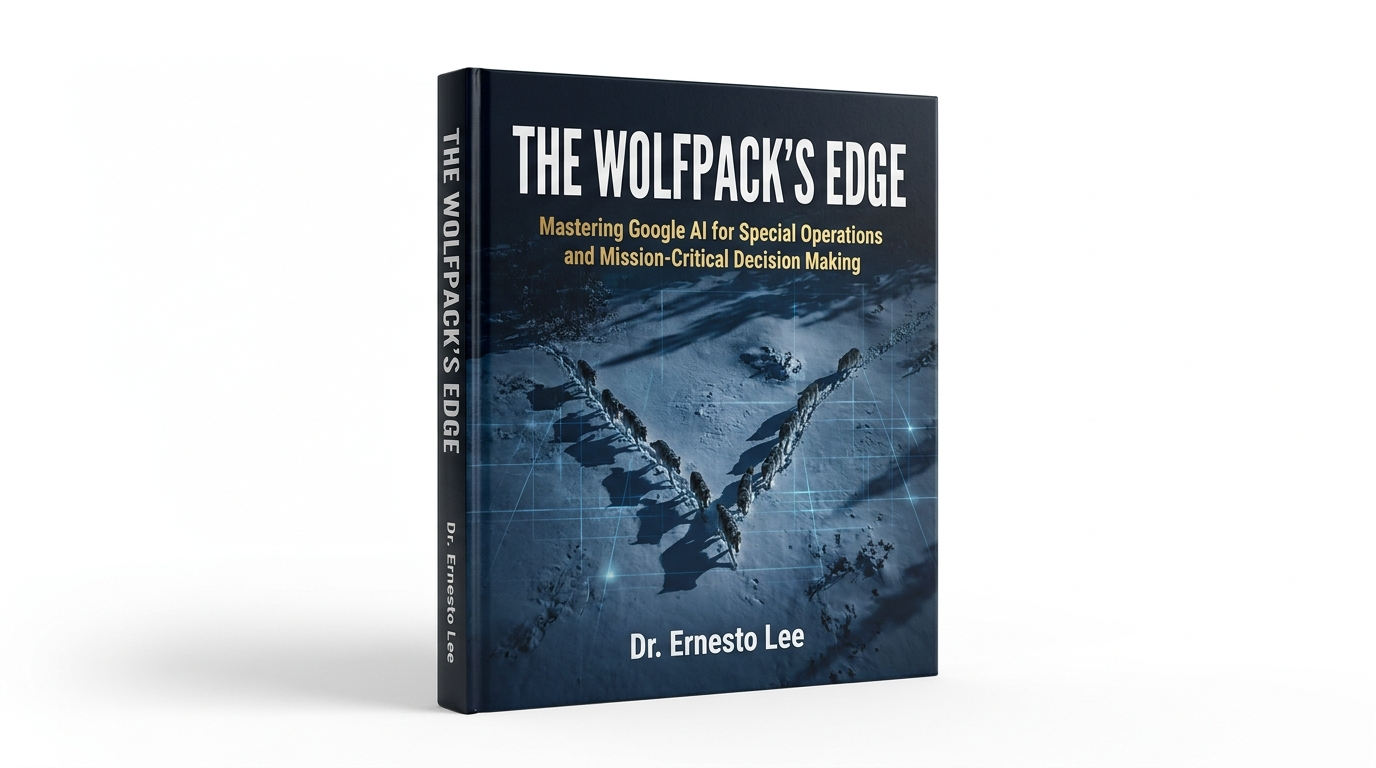
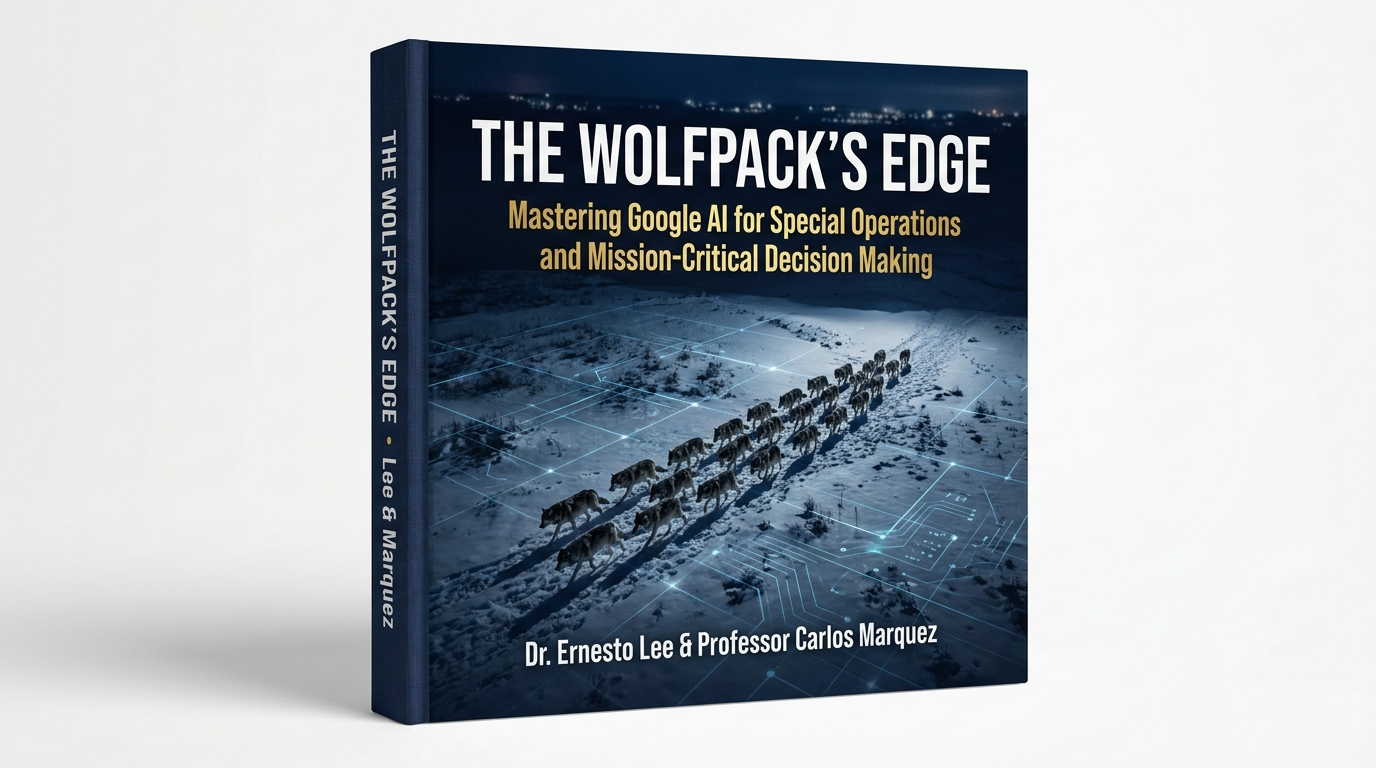
Add Professor Carlos Marquez as co-author (MDC), regenerate cover, update landing page

diff --git a/index.md b/index.md
@@ -65,7 +65,7 @@ Not the breathless headline version. Not the vendor demo. A real one — where s
 
 That's this book.
 
-**The Wolfpack's Edge** is the companion to Dr. Lee's two-day intensive AI course for the Lukos team. Read it before class to get grounded. Bring it to class to follow along. Keep it after class when you're building your first Gem at 10 PM and need to remember which setting to click.
+**The Wolfpack's Edge** is the companion to the two-day intensive AI course for the Lukos team, developed and delivered by **Dr. Ernesto Lee** and **Professor Carlos Marquez** of Miami Dade College. Read it before class to get grounded. Bring it to class to follow along. Keep it after class when you're building your first Gem at 10 PM and need to remember which setting to click.
 
 Every example in this book comes from the world you actually work in: Lessons Learned, experimentation support, foreign partner engagement, acquisition, behavioral health, training development, ORSA analysis. No generic corporate AI examples. Just your work, running faster.
 
@@ -73,7 +73,7 @@ Every example in this book comes from the world you actually work in: Lessons Le
 
 ## 📋 Before You Begin: AI Readiness Assessment
 
-Before class, take five minutes to complete the **Lukos AI Readiness Gap Assessment**. It tells Dr. Lee where the pack is starting from — and helps you identify your own gaps before we address them together.
+Before class, take five minutes to complete the **Lukos AI Readiness Gap Assessment**. It tells Dr. Lee and Professor Marquez where the pack is starting from — and helps you identify your own gaps before we address them together.
 
 **[→ Complete the AI Readiness Gap Assessment](https://docs.google.com/forms/d/1QQJJ4eZq1kpk5lRWL4TL1nxIeogpz1SkhxgzQpPOF44/edit)**
 
@@ -161,10 +161,16 @@ Chapter 10 covers AI at the edge: offline deployment on isolated or air-gapped n
 
 ---
 
-## Continue Learning with Dr. Lee
+## About the Authors
 
-- **[drlee.io](https://drlee.io)** — Course materials, tools, and updates
-- **[drlee.ai](https://drlee.ai)** — AI research and practitioner-focused education
+**Dr. Ernesto Lee** is a professor at Miami Dade College and an AI practitioner specializing in applied AI adoption for high-performance organizations. He writes at [drlee.io](https://drlee.io) and delivers enterprise AI training through [drlee.ai](https://drlee.ai).
+
+**Professor Carlos Marquez** is a professor at Miami Dade College with deep expertise in technology education and applied AI. Together, Lee and Marquez bring both academic rigor and real-world practitioner experience to the Lukos team.
+
+## Continue Learning
+
+- **[drlee.io](https://drlee.io)** — Essays, tools, and AI updates from Dr. Lee
+- **[drlee.ai](https://drlee.ai)** — Courses, workshops, and enterprise training programs
 
 ---
 
